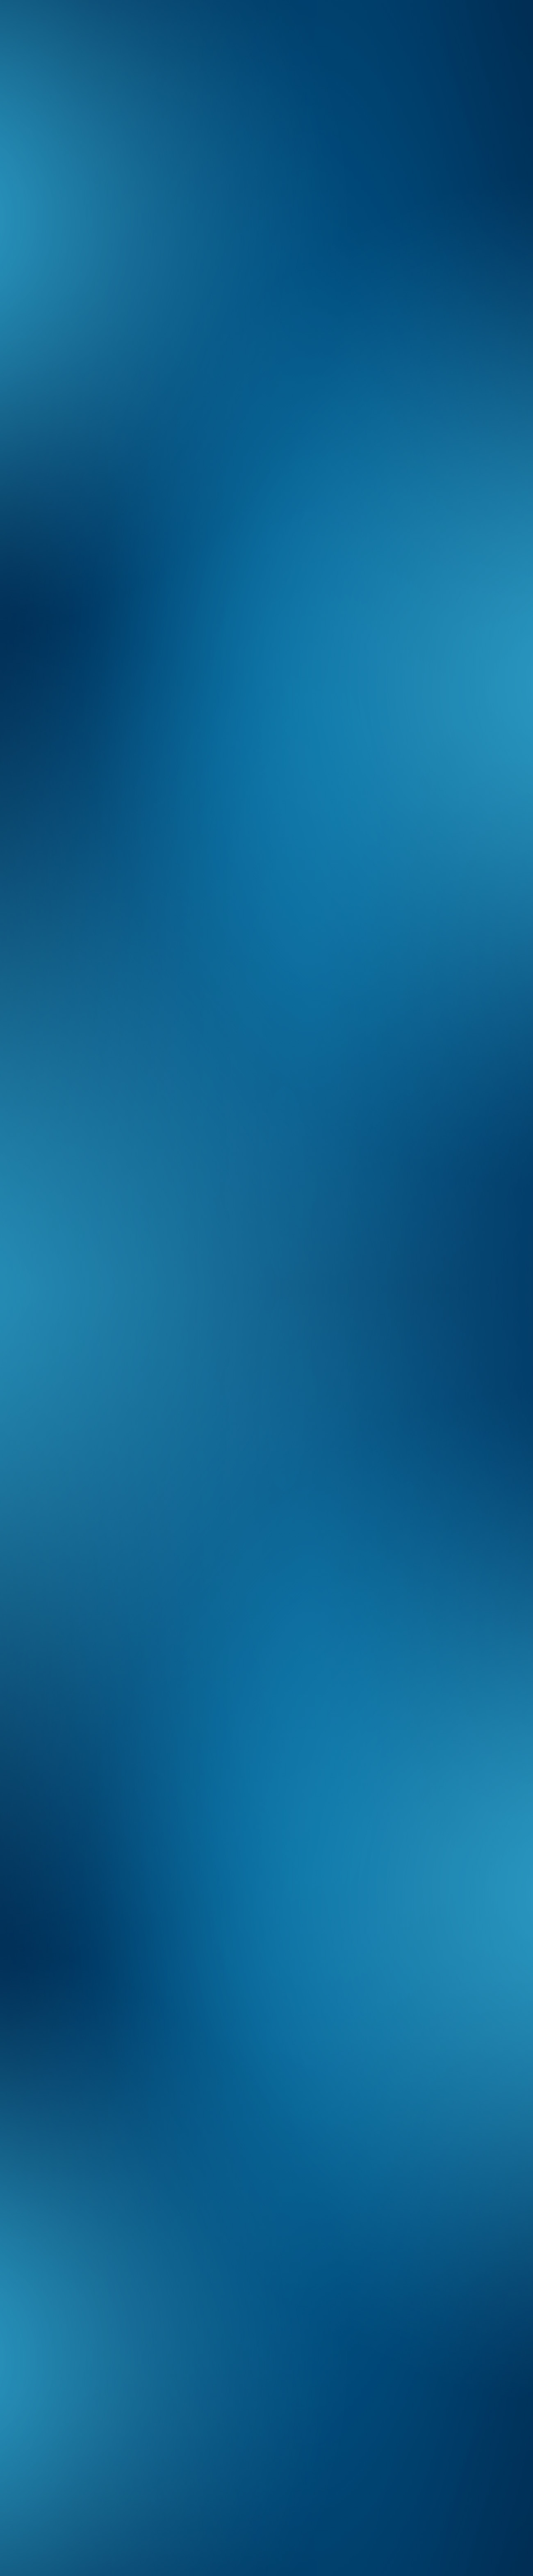
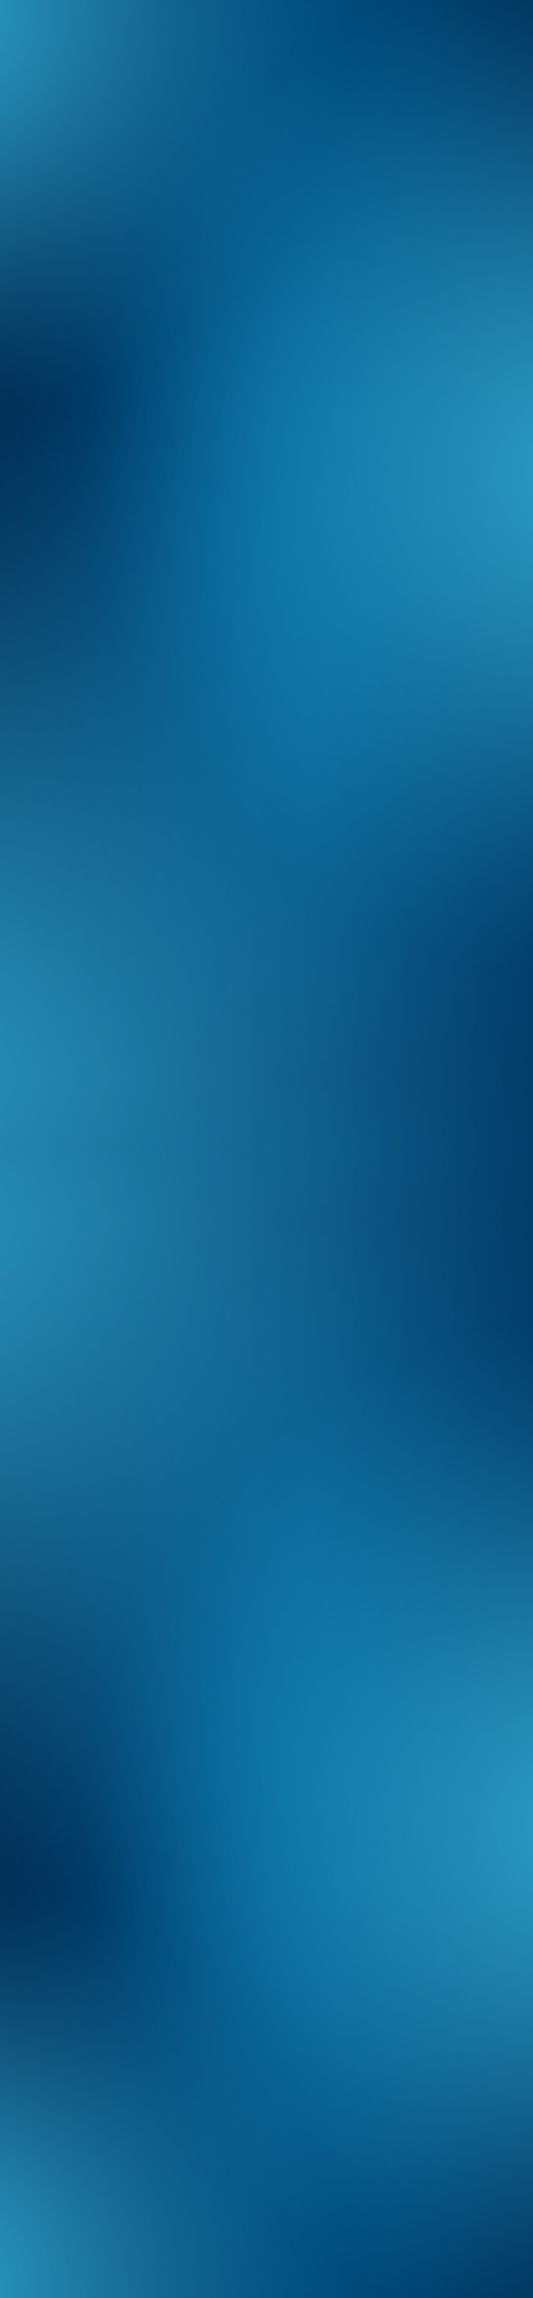
Changes

diff --git a/bitrix/layout/css/frontend.css b/bitrix/layout/css/frontend.css
@@ -9777,7 +9777,7 @@ body.color {
   -moz-background-size: cover;
   background-size: cover;
   position: top center;
-  background-repeat: no-repeat;
+  background-repeat: repeat-y;
 }
 @media (max-width: 570px) {
   body.color {
@@ -11443,6 +11443,12 @@ svg path:hover {
   float: left;
   width: 100%;
 }
+#page.academy .item img {
+  max-width: 100%;
+}
+#page.academy .item:first-of-type img {
+  max-width: 120%;
+}
 #page.academy .item h3 {
   float: left;
   padding-top: 10px;
@@ -11697,6 +11703,9 @@ svg path:hover {
 }
 #page.career .item {
   margin-top: 40px;
+}
+#page.career .item img {
+  max-width: 100%;
 }
 #page.career .item h3 {
   font-size: 24px;

diff --git a/sources/css/style.css b/sources/css/style.css
@@ -59,7 +59,7 @@ body.color {
   -moz-background-size: cover;
   background-size: cover;
   position: top center;
-  background-repeat: no-repeat;
+  background-repeat: repeat-y;
 }
 @media (max-width: 570px) {
   body.color {
@@ -1725,6 +1725,12 @@ svg path:hover {
   float: left;
   width: 100%;
 }
+#page.academy .item img {
+  max-width: 100%;
+}
+#page.academy .item:first-of-type img {
+  max-width: 120%;
+}
 #page.academy .item h3 {
   float: left;
   padding-top: 10px;
@@ -1979,6 +1985,9 @@ svg path:hover {
 }
 #page.career .item {
   margin-top: 40px;
+}
+#page.career .item img {
+  max-width: 100%;
 }
 #page.career .item h3 {
   font-size: 24px;
